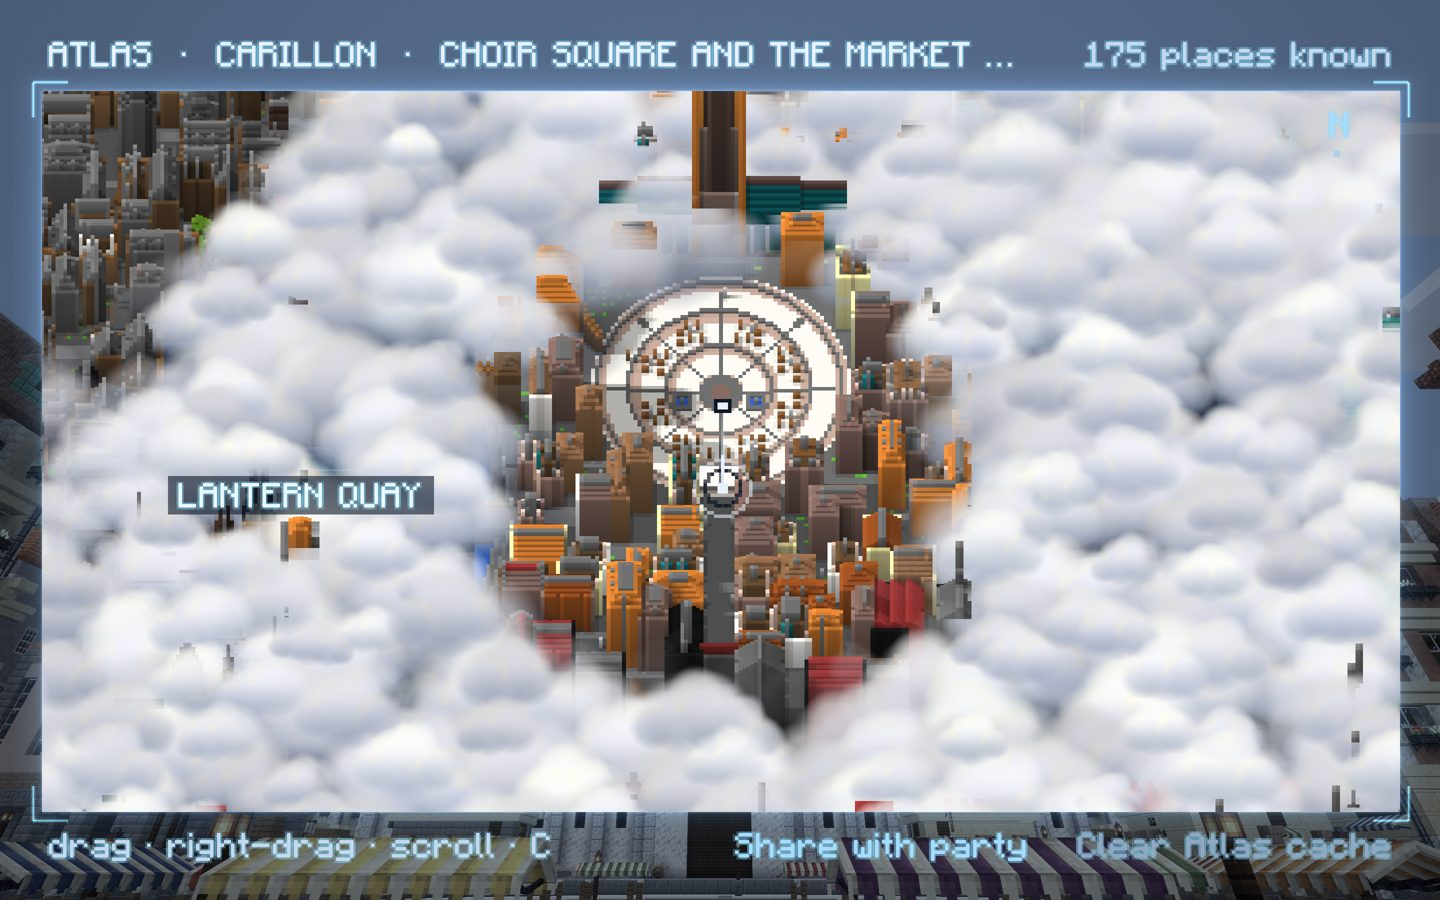
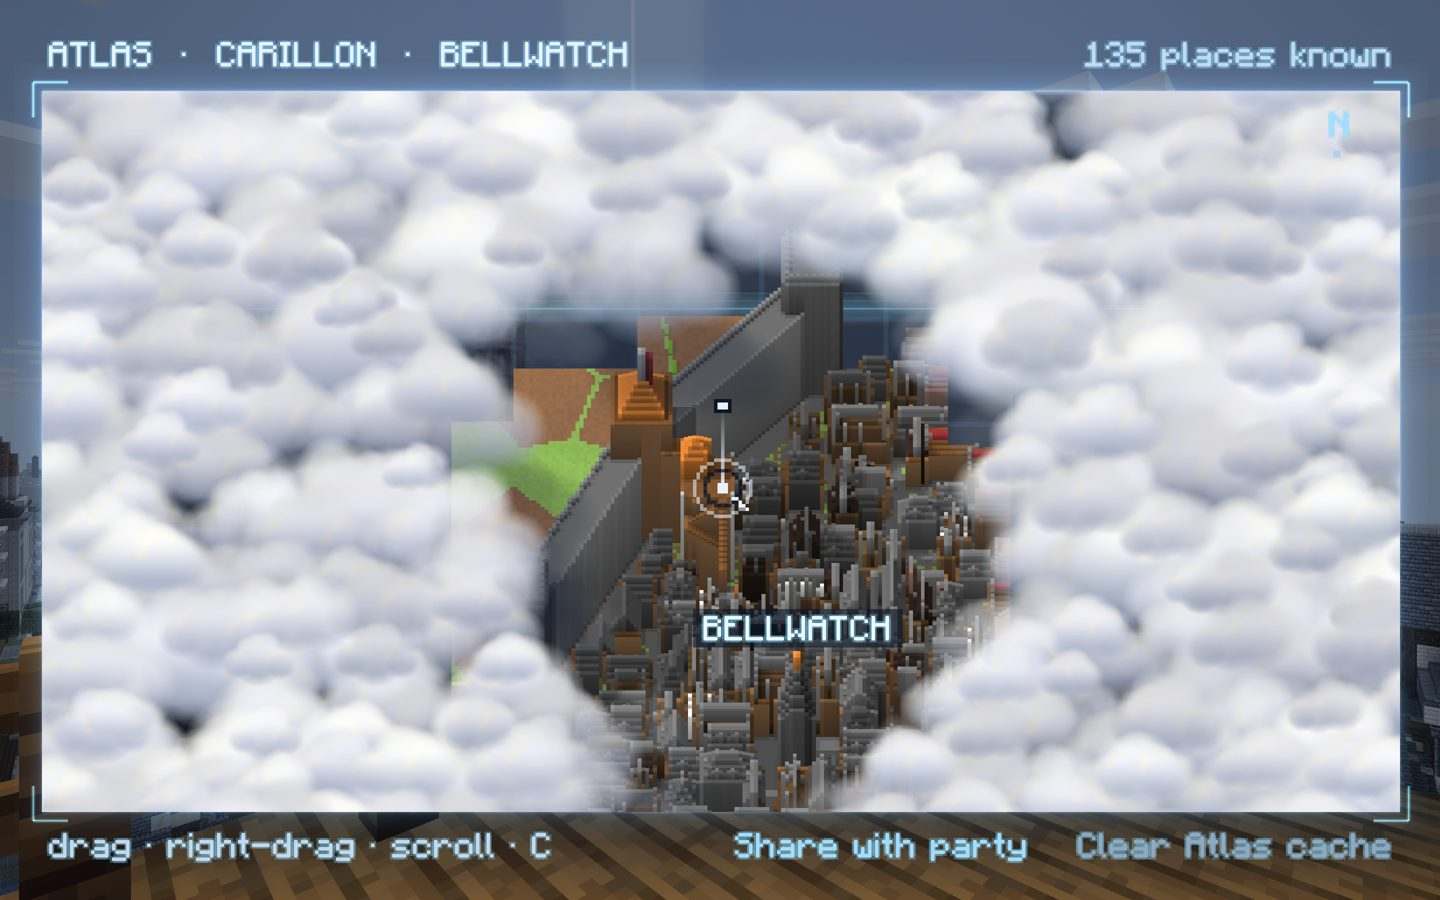
Atlas M5: the mesher survives a clear mid-build (the Nether built nothing), clouds draw over the land (no roofs through the blanket), region names never overlap, orbit redraws capped at 60 Hz; uncapped numbers and phase 3 shots; SPEC 16.8

diff --git a/src/main/java/dev/awaken/atlas/client/AtlasScreen.java b/src/main/java/dev/awaken/atlas/client/AtlasScreen.java
@@ -47,6 +47,7 @@ public final class AtlasScreen extends Screen {
     private final Matrix4f gui = new Matrix4f();
     private final Vector3f v = new Vector3f();
     private boolean reveal;
+    private final int[] regionBoxes = new int[32 * 4];
     private int wantX = Integer.MIN_VALUE, wantZ;
     private int shareX0, shareX1, clearX0, clearX1, buttonsY;
 
@@ -223,10 +224,21 @@ public final class AtlasScreen extends Screen {
         // the Living Wilds' regions you've been in, lettered across the land once you're zoomed out, as old maps name
         // a country: spaced capitals, quiet, with the region's levels under the name
         if (lod > 0) {
+            int placed = 0;
             for (dev.awaken.atlas.AtlasData.Region r : atlas.regions) {
                 if (!project(r.heartX(), atlas.store.groundY(r.heartX(), r.heartZ(), 64) + 6, r.heartZ(), x0, y0)) continue;
                 String name = spaced(r.name().toUpperCase(Locale.ROOT));
-                int sx = Math.round(v.x), sy = Math.round(v.y);
+                int sx = Math.round(v.x), sy = Math.round(v.y), half = Math.round(font.width(name) * 0.75f);
+                // names never sit on one another: a later one that would overlap an earlier one waits for a closer zoom
+                boolean clear = true;
+                for (int k = 0; k < placed && clear; k++)
+                    clear = sx + half < regionBoxes[k * 4] || sx - half > regionBoxes[k * 4 + 2] || sy + 20 < regionBoxes[k * 4 + 1] || sy - 8 > regionBoxes[k * 4 + 3];
+                if (!clear || placed >= 32) continue;
+                regionBoxes[placed * 4] = sx - half;
+                regionBoxes[placed * 4 + 1] = sy - 8;
+                regionBoxes[placed * 4 + 2] = sx + half;
+                regionBoxes[placed * 4 + 3] = sy + 20;
+                placed++;
                 g.pose().pushMatrix();
                 g.pose().translate(sx, sy);
                 g.pose().scale(1.5f, 1.5f);

diff --git a/src/main/java/dev/awaken/atlas/client/AtlasRenderer.java b/src/main/java/dev/awaken/atlas/client/AtlasRenderer.java
@@ -30,6 +30,7 @@ final class AtlasRenderer extends PictureInPictureRenderer<AtlasRenderState> {
     private long lastDraw;
     /** How often drifting clouds redraw the picture (dev: {@code /atlas drift <hz>}). */
     static long DRIFT_NANOS = 33_000_000L;
+    static final long MOVE_NANOS = 16_000_000L;
 
     /** Same picture apart from the clouds' clock. */
     private static boolean sameView(AtlasRenderState a, AtlasRenderState b) {
@@ -69,7 +70,9 @@ final class AtlasRenderer extends PictureInPictureRenderer<AtlasRenderState> {
         // 100+ fps). Nothing moving: the last picture is still right
         long now = System.nanoTime();
         boolean moved = last == null || !sameView(s, last);
-        boolean redraw = resized || moved || s.age() < 1.5f || s.animate() && now - lastDraw >= DRIFT_NANOS;
+        // while the view moves (an orbit, a drag) the picture redraws at most 60 times a second: above that the eye
+        // can't follow the table, and each redraw costs the land again
+        boolean redraw = resized || (moved || s.age() < 1.5f) && now - lastDraw >= MOVE_NANOS || s.animate() && now - lastDraw >= DRIFT_NANOS;
         if (redraw) {
             lastDraw = now;
             painter.paint(device, s, color, colorView, depth, depthView, w, h, guiScale, true);

diff --git a/src/main/java/dev/awaken/atlas/client/AtlasPipelines.java b/src/main/java/dev/awaken/atlas/client/AtlasPipelines.java
@@ -45,7 +45,10 @@ final class AtlasPipelines {
             .withCull(false)
             .build();
 
-    /** Cloud puffs: a soft sprite, translucent, depth-tested so tall explored peaks can poke through. */
+    /**
+     * Cloud puffs and their shadows: a soft sprite, translucent, over everything. (Spike S5 depth-tested them so tall
+     * peaks poke through; at the edge of the known land that left roofs and spires floating in the blanket.)
+     */
     static final RenderPipeline CLOUDS = RenderPipeline.builder(RenderPipelines.GLOBALS_SNIPPET)
             .withLocation(Identifier.fromNamespaceAndPath(Awaken.MODID, "pipeline/atlas_clouds"))
             .withBindGroupLayout(BindGroupLayouts.PROJECTION)
@@ -56,7 +59,7 @@ final class AtlasPipelines {
             .withColorTargetState(new ColorTargetState(BlendFunction.TRANSLUCENT))
             .withVertexBinding(0, DefaultVertexFormat.POSITION_TEX_COLOR)
             .withPrimitiveTopology(PrimitiveTopology.QUADS)
-            .withDepthStencilState(new DepthStencilState(CompareOp.GREATER_THAN_OR_EQUAL, false))
+            .withDepthStencilState(new DepthStencilState(CompareOp.ALWAYS_PASS, false))
             .withCull(false)
             .build();
 

diff --git a/src/main/java/dev/awaken/atlas/client/AtlasMesh.java b/src/main/java/dev/awaken/atlas/client/AtlasMesh.java
@@ -125,6 +125,8 @@ final class AtlasMesh {
     /** Everything is stale (a new dimension, a cleared cache). */
     void clear() {
         generation++;
+        inFlight = 0; // builds still running belong to the old generation and will never report back
+        snapshotVersion = -1;
         for (var map : slices) {
             for (Slice s : map.values()) close(s);
             map.clear();

diff --git a/docs/SPEC.md b/docs/SPEC.md
@@ -1665,6 +1665,25 @@ for sealing and shared rewards; `story` hands the Ritual's end to `opening` in C
     where you look is up) painted into the texture `awaken:atlas/glance` (480×280) at most once a second while the menu
     shows it, or sooner once you've moved 4 blocks or turned 12°; the Holo draws it as one textured quad, with a button
     to the table.
+  - Phase 3 (`AtlasData` schemaVersion 2): the Living Wilds region you stand in (`living.api.Regions`, checked every 40
+    ticks, overworld only) joins your Atlas once; zoomed out, each known region's name is lettered at its heart in
+    spaced capitals with its levels under it. Party pins: double-click the table to drop a pin on ground you know (or
+    take back your own under the cursor); twelve per player, the oldest goes; each party member online sees the
+    party's pins in their dimension, in the owner's own colour (a hue from their id), with the owner's name. Dev:
+    `/awaken atlas pin`. Roofed dimensions (the Nether) are read from just under the roof (y 118) down through rock to
+    the first air, then to the floor, so the table shows the highest floor of each column; those chunks are sampled
+    from a queue about 1 ms a tick, the diorama's base drops to 24 and there is no night. Carillon's lit windows
+    (`awaken:lit_window`, within 12 of a column's top) count as night lights.
+  - A bell's ripple adds each cell to the client's record only when the ripple reaches it (so no land shows under
+    clouds that haven't parted), a whole re-send drops every built slice, and the clouds draw over the land (no depth
+    test: spike S5's poke-through left roofs and spires floating in the blanket at the known edge). While the view
+    moves the picture redraws at most 60 times a second.
+  - Measured on OpenGL, uncapped, interleaved pairs at the same spot (tour 2026-10-25, load 5–9): the table open and
+    still +1.5–1.6 ms p50 (+1.4–1.5 of it is the open screen itself, re-blitting the frozen picture: the blit, the glass
+    card, Lens dimming), clouds at 60 Hz +1.9–2.0, orbiting +1.9–2.0 after the 60 Hz cap (+2.6 before); open 12–20 ms
+    cold, 2–8 ms warm; the glance 0.23 ms a paint; sampler 10–18 µs a chunk (120 µs under the Nether's roof).
+  - Frame cost is judged on OpenGL: on Vulkan, MoltenVK presents at the display's rate (120 Hz) even with vsync off, so
+    a capped tour can't show it.
 
 ### 16.9 Public hooks (`core.api`, v0; signatures may change only through the orchestrator)
 - `CityHooks`: `inCity(Level, BlockPos)`, `district(Level, BlockPos)` (id or null), `isCivic(Level, BlockPos)`,
